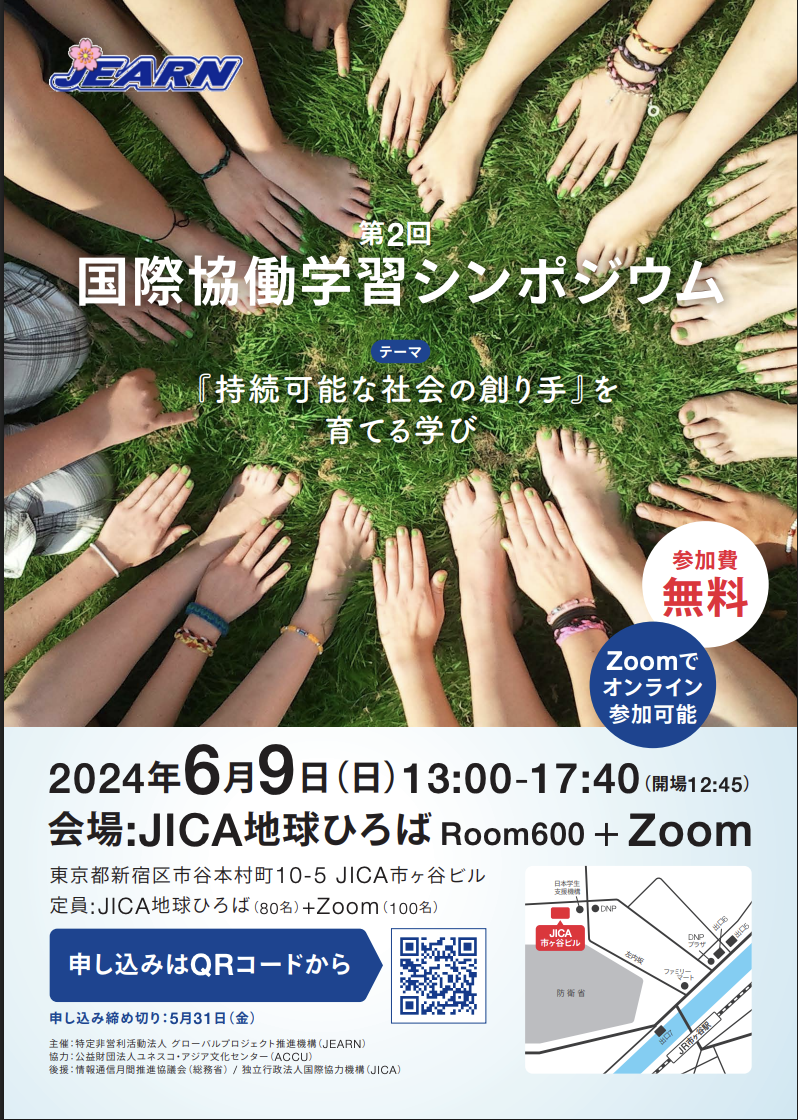
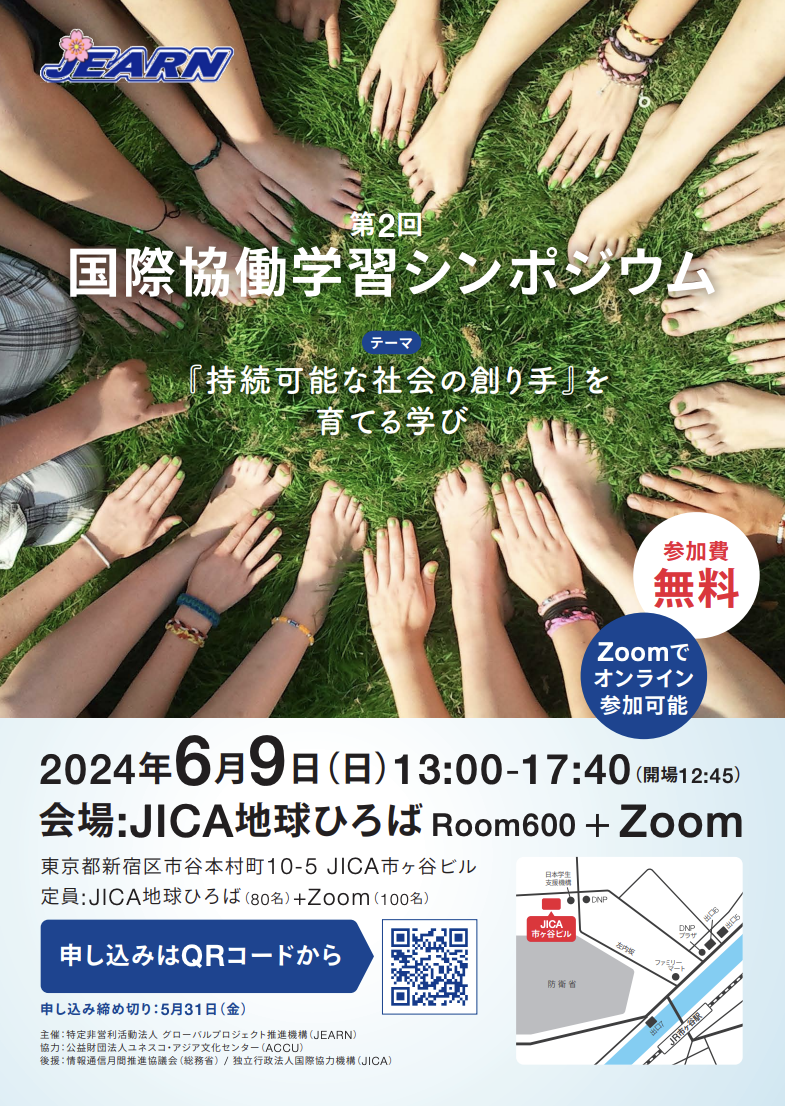
FVテキストを変える。FAQのJGSテキスト変更

diff --git a/home.html b/home.html
@@ -154,8 +154,8 @@
     <!--メインコンテンツ-->
     <!--見出し-->
     <div class="symposium-news">
-        <p>2025年6月8日（日）第3回国際協働学習シンポジウム開催予定！</p>
-        <a href=""><p>詳細はこちらから</p></a>
+        <p>2025年6月8日（日）第3回国際協働学習<br>シンポジウム開催予定！</p>
+        <a href="https://drive.google.com/file/d/1kXS3iyiAcXoIjdkjxFXCFTFdVeD9ngZy/view?usp=drive_link"><p>詳細はこちらから</p></a>
     </div>
     <div class="content-bg-white-top">
         <div class="top-visual">
@@ -351,11 +351,11 @@
         <div class="modal-content">
           <span class="close-button">×</span>
           <div class="modal-title">第3回国際協働学習シンポジウム開催！</div>
-            <!-- <div class="modal-image">
+            <div class="modal-image">
                 <img src="img/JEARN-symposium2025-ads.png" alt="Symposium 2025" class="modal-img" >
-            </div> -->
-          <p class="modal-text">2025年6月8日（日）第3回国際協働学習シンポジウム開催予定！</p>
-          <p class="modal-a"><a href="https://jearn.jp">詳細はこちらから</a></p>
+            </div>
+          <p class="modal-text">2025年6月8日（日）第3回国際協働学習<br>シンポジウム開催予定！</p>
+          <p class="modal-a"><a href="https://drive.google.com/file/d/1kXS3iyiAcXoIjdkjxFXCFTFdVeD9ngZy/view?usp=drive_link">詳細はこちらから</a></p>
         </div>
     </div>
       

diff --git a/Joinus/faq.html b/Joinus/faq.html
@@ -305,7 +305,9 @@
 					<!-- ボタンを押すと展開・折りたたみされる部分 -->
 					<div class="accordion-body">
 						<!-- アイテムの内容 -->
-						“JEARN: Getting Started（JGS）”はジェイアーン会員専用の情報収集や投稿ができるコミュニティ・スペースです。<br>詳細： <a href="https://www.jearn.jp/collaboration-center/index.html">https://www.jearn.jp/collaboration-center/index.html</a>  ( LOGINクリック⇒iEARN Welcomeにログイン⇒ My Projects & Courses下のJEARN: Getting Startedをクリック)
+						“JEARN:Getting Started(JGS)”はジェイアーン会員専用の日本語で情報収集や投稿ができるコミュニティ・スペースです。<br>
+                        ①iearn.org からログイン<br>
+                        ②2My Projects and Courses下から「JEARN: GettingStarted」をクリック→JGSへ(詳細は<a href="https://www.jearn.jp/collaboration-center/index.html">こちら</a>)
                         <br>
 						<!-- アイテムの内容を記述します -->
 					</div>
